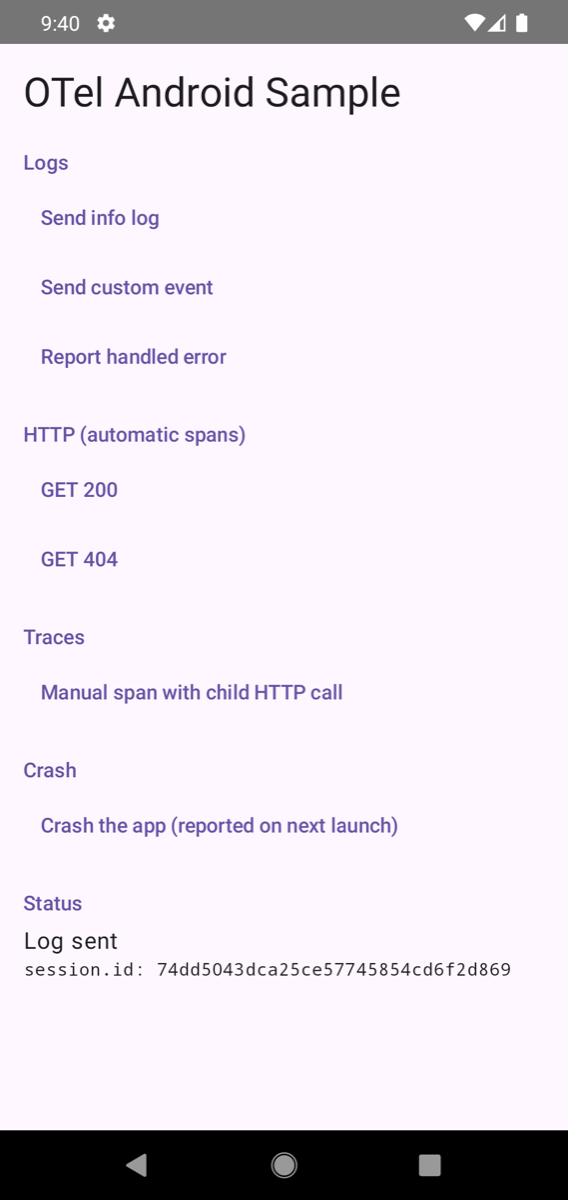
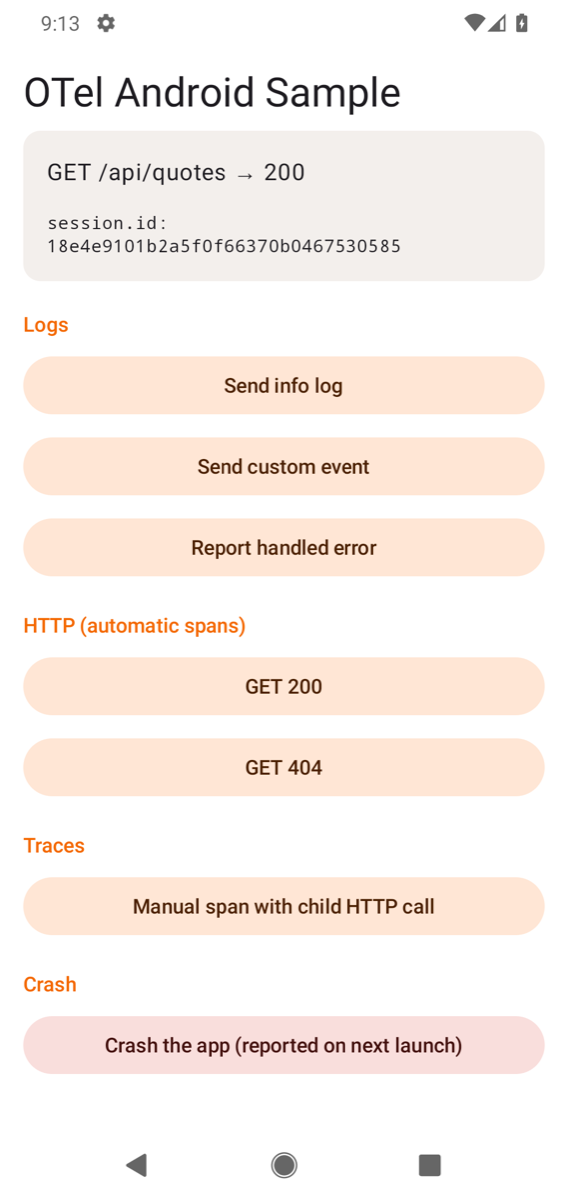
docs(mobile): tidy up the Android quickstart screen
Status card at the top, full-width tonal buttons, Grafana orange.

diff --git a/Mobiles/quickstart/android/app/src/main/java/com/example/otelandroidsample/MainActivity.kt b/Mobiles/quickstart/android/app/src/main/java/com/example/otelandroidsample/MainActivity.kt
@@ -3,14 +3,21 @@ package com.example.otelandroidsample
 import android.os.Bundle
 import androidx.activity.ComponentActivity
 import androidx.activity.compose.setContent
+import androidx.activity.enableEdgeToEdge
+import androidx.compose.foundation.layout.Arrangement
+import androidx.compose.foundation.layout.PaddingValues
 import androidx.compose.foundation.layout.fillMaxSize
+import androidx.compose.foundation.layout.fillMaxWidth
 import androidx.compose.foundation.layout.padding
 import androidx.compose.foundation.lazy.LazyColumn
 import androidx.compose.foundation.text.selection.SelectionContainer
+import androidx.compose.material3.ButtonDefaults
+import androidx.compose.material3.Card
+import androidx.compose.material3.FilledTonalButton
 import androidx.compose.material3.MaterialTheme
 import androidx.compose.material3.Scaffold
 import androidx.compose.material3.Text
-import androidx.compose.material3.TextButton
+import androidx.compose.material3.lightColorScheme
 import androidx.compose.runtime.Composable
 import androidx.compose.runtime.getValue
 import androidx.compose.runtime.mutableStateOf
@@ -18,6 +25,7 @@ import androidx.compose.runtime.remember
 import androidx.compose.runtime.rememberCoroutineScope
 import androidx.compose.runtime.setValue
 import androidx.compose.ui.Modifier
+import androidx.compose.ui.graphics.Color
 import androidx.compose.ui.text.font.FontFamily
 import androidx.compose.ui.unit.dp
 import io.opentelemetry.api.common.AttributeKey.longKey
@@ -32,10 +40,23 @@ import okhttp3.Request
 private const val OK_URL = "https://quickpizza.grafana.com/api/quotes"
 private const val NOT_FOUND_URL = "https://quickpizza.grafana.com/api/does-not-exist"
 
+// Grafana orange, with matching light tints for the buttons and the status card.
+private val SampleColors = lightColorScheme(
+    primary = Color(0xFFF46800),
+    secondaryContainer = Color(0xFFFFE6D5),
+    onSecondaryContainer = Color(0xFF4A1F00),
+    surfaceContainerHighest = Color(0xFFF3EFEC),
+    background = Color.White,
+    surface = Color.White,
+)
+
 class MainActivity : ComponentActivity() {
     override fun onCreate(savedInstanceState: Bundle?) {
         super.onCreate(savedInstanceState)
-        setContent { MaterialTheme { SampleScreen() } }
+        enableEdgeToEdge()
+        setContent {
+            MaterialTheme(colorScheme = SampleColors) { SampleScreen() }
+        }
     }
 }
 
@@ -51,8 +72,13 @@ private fun SampleScreen() {
     }
 
     Scaffold { padding ->
-        LazyColumn(Modifier.fillMaxSize().padding(padding).padding(16.dp)) {
+        LazyColumn(
+            Modifier.fillMaxSize().padding(padding),
+            contentPadding = PaddingValues(16.dp),
+            verticalArrangement = Arrangement.spacedBy(8.dp),
+        ) {
             item { Text("OTel Android Sample", style = MaterialTheme.typography.headlineMedium) }
+            item { StatusCard(status) }
 
             item { SectionTitle("Logs") }
             item { Action("Send info log") { status = sendLog() } }
@@ -67,19 +93,7 @@ private fun SampleScreen() {
             item { Action("Manual span with child HTTP call") { runInBackground { manualSpan() } } }
 
             item { SectionTitle("Crash") }
-            item { Action("Crash the app (reported on next launch)") { crash() } }
-
-            item { SectionTitle("Status") }
-            item { Text(status) }
-            item {
-                SelectionContainer {
-                    Text(
-                        "session.id: ${OTel.sessionId ?: "-"}",
-                        fontFamily = FontFamily.Monospace,
-                        style = MaterialTheme.typography.bodySmall,
-                    )
-                }
-            }
+            item { Action("Crash the app (reported on next launch)", destructive = true) { crash() } }
         }
     }
 }
@@ -130,17 +144,41 @@ private fun crash(): Nothing = throw IllegalStateException("Demo crash from the 
 /** An example app error. */
 class CheckoutException(message: String) : Exception(message)
 
+/** The result of the last tap, and the session ID to search for in Frontend Observability. */
+@Composable
+private fun StatusCard(status: String) {
+    Card(Modifier.fillMaxWidth()) {
+        Text(status, Modifier.padding(start = 16.dp, top = 16.dp, end = 16.dp))
+        SelectionContainer {
+            Text(
+                "session.id: ${OTel.sessionId ?: "-"}",
+                Modifier.padding(16.dp),
+                fontFamily = FontFamily.Monospace,
+                style = MaterialTheme.typography.bodySmall,
+            )
+        }
+    }
+}
+
 @Composable
 private fun SectionTitle(text: String) {
     Text(
         text,
         style = MaterialTheme.typography.titleSmall,
         color = MaterialTheme.colorScheme.primary,
-        modifier = Modifier.padding(top = 20.dp, bottom = 4.dp),
+        modifier = Modifier.padding(top = 12.dp),
     )
 }
 
 @Composable
-private fun Action(label: String, onClick: () -> Unit) {
-    TextButton(onClick = onClick) { Text(label) }
+private fun Action(label: String, destructive: Boolean = false, onClick: () -> Unit) {
+    val colors = if (destructive) {
+        ButtonDefaults.filledTonalButtonColors(
+            containerColor = MaterialTheme.colorScheme.errorContainer,
+            contentColor = MaterialTheme.colorScheme.onErrorContainer,
+        )
+    } else {
+        ButtonDefaults.filledTonalButtonColors()
+    }
+    FilledTonalButton(onClick, Modifier.fillMaxWidth(), colors = colors) { Text(label) }
 }
